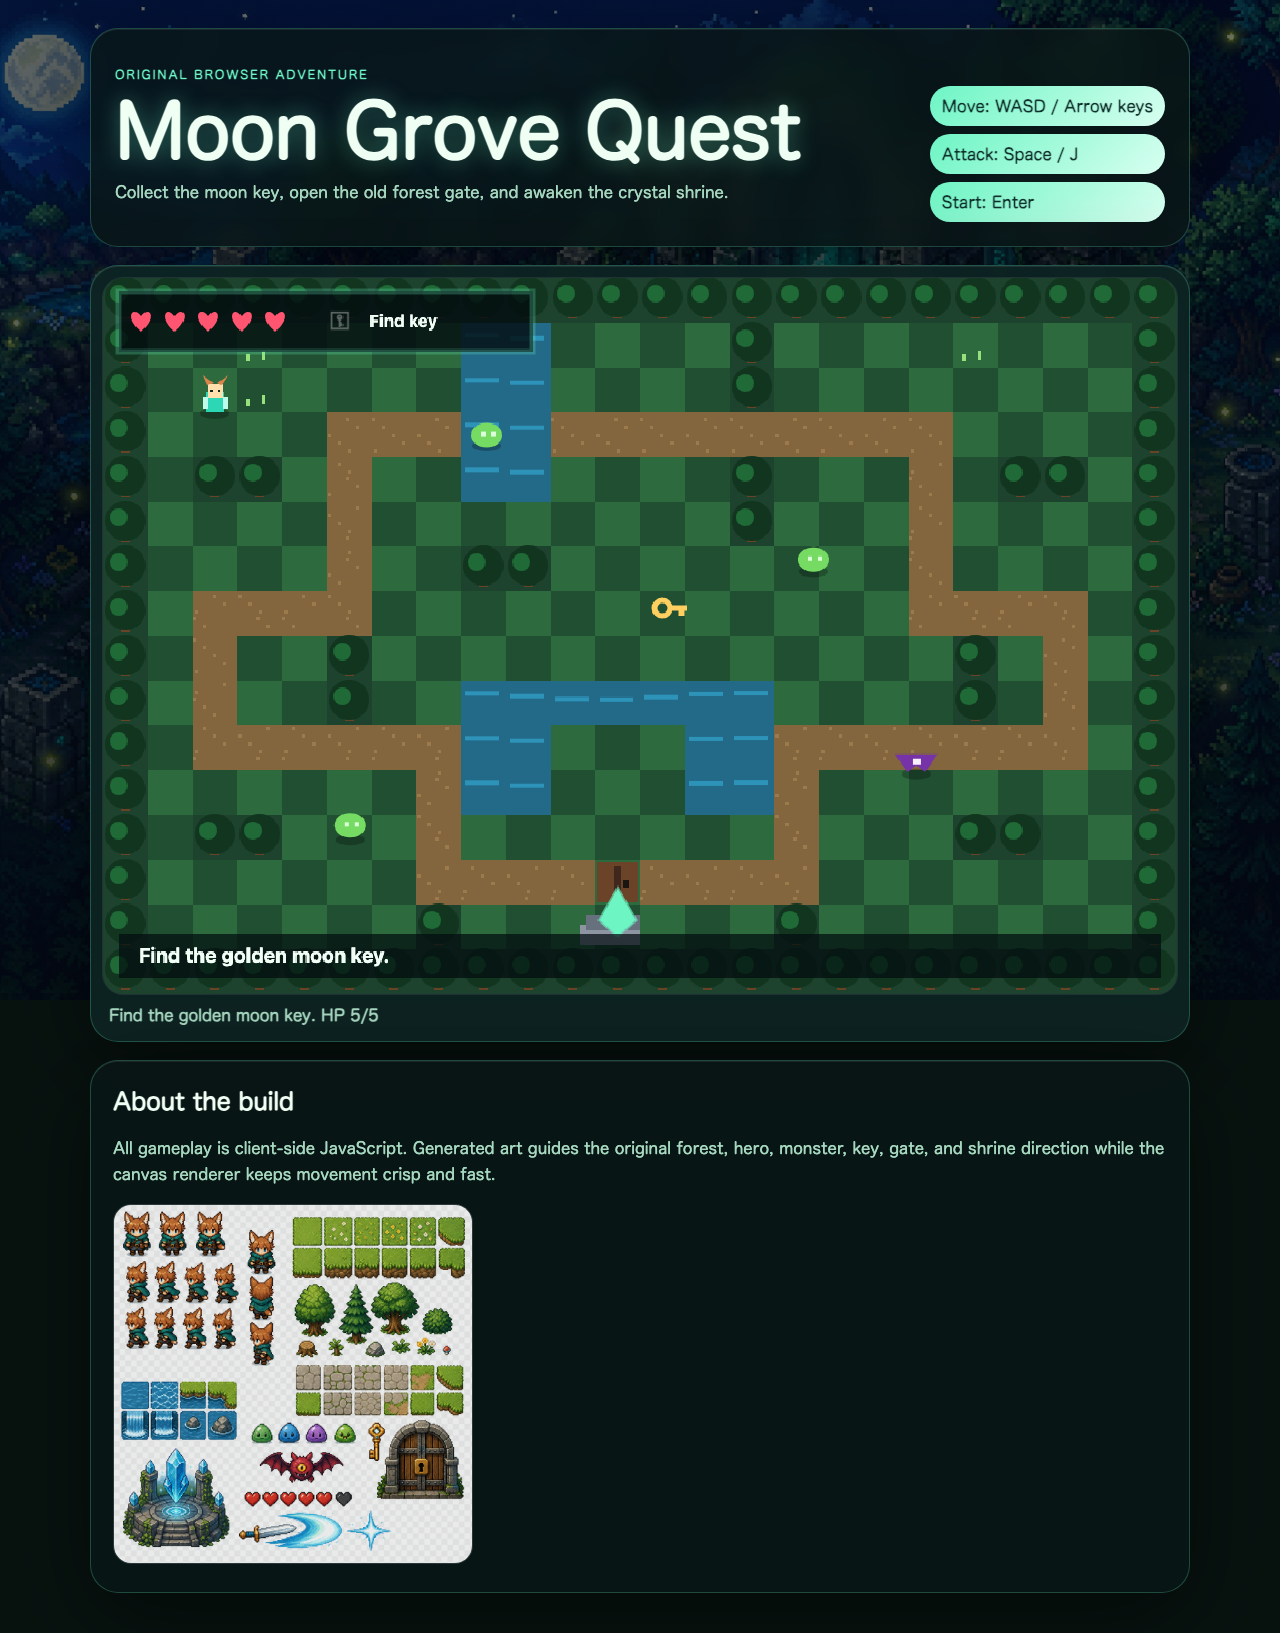
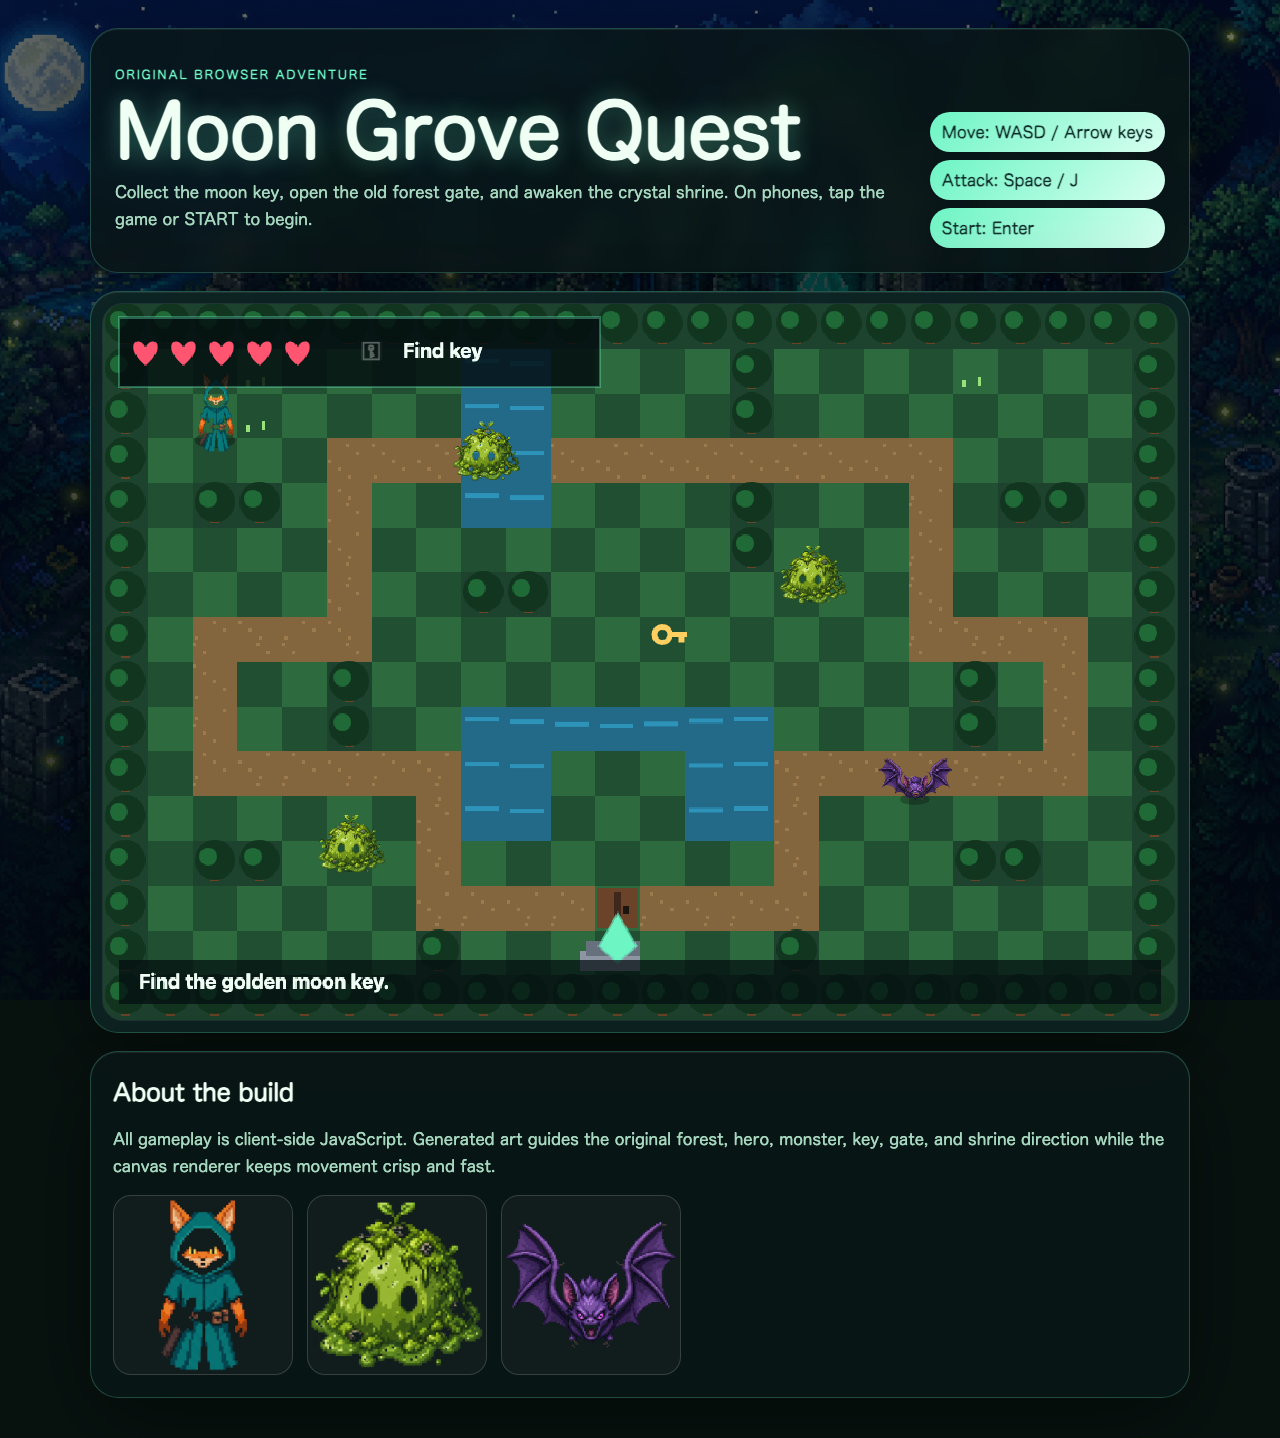
Improve mobile controls and use generated sprites

diff --git a/game.js b/game.js
@@ -6,6 +6,11 @@
   const startBtn = document.getElementById('startBtn');
   const reduceMotion = window.matchMedia('(prefers-reduced-motion: reduce)').matches;
   const statusEl = document.getElementById('status');
+  const sprites = {
+    hero: Object.assign(new Image(), { src: 'hero-sprite-clean.png' }),
+    slime: Object.assign(new Image(), { src: 'slime-sprite-clean.png' }),
+    bat: Object.assign(new Image(), { src: 'bat-sprite-clean.png' })
+  };
   const W = canvas.width;
   const H = canvas.height;
   const TILE = 40;
@@ -206,25 +211,24 @@
   function drawHero() {
     if (hero.inv > 0 && Math.floor(hero.inv / 5) % 2) return;
     const x = hero.x, y = hero.y;
-    ctx.fillStyle = 'rgba(0,0,0,.25)'; ctx.beginPath(); ctx.ellipse(x + 12, y + 29, 13, 5, 0, 0, Math.PI*2); ctx.fill();
-    ctx.strokeStyle = '#09231d'; ctx.lineWidth = 3; ctx.strokeRect(x + 3, y + 9, 18, 20); ctx.fillStyle = '#2dd7b5'; ctx.fillRect(x + 4, y + 10, 16, 18);
-    ctx.fillStyle = '#ffe0ad'; ctx.fillRect(x + 6, y + 3, 13, 12);
-    ctx.fillStyle = '#d9844a'; ctx.beginPath(); ctx.moveTo(x + 5, y + 4); ctx.lineTo(x + 1, y - 5); ctx.lineTo(x + 11, y + 2); ctx.moveTo(x + 18, y + 4); ctx.lineTo(x + 24, y - 5); ctx.lineTo(x + 14, y + 2); ctx.fill();
-    ctx.fillStyle = '#10251d';
-    if (hero.dir !== 'up') { ctx.fillRect(x + 8, y + 8, 2, 2); ctx.fillRect(x + 15, y + 8, 2, 2); }
-    ctx.fillStyle = '#bdfbea'; ctx.fillRect(x + 1, y + 14 + Math.sin(hero.step)*2, 5, 11); ctx.fillRect(x + 19, y + 14 - Math.sin(hero.step)*2, 5, 11);
-    if (hero.attack > 0) { const ar = attackRect(); ctx.strokeStyle = '#eaffff'; ctx.lineWidth = 5; ctx.beginPath(); ctx.arc(ar.x + ar.w/2, ar.y + ar.h/2, 18, -.7, Math.PI+.7); ctx.stroke(); }
+    ctx.fillStyle = 'rgba(0,0,0,.32)'; ctx.beginPath(); ctx.ellipse(x + 12, y + 30, 18, 7, 0, 0, Math.PI*2); ctx.fill();
+    if (sprites.hero.complete && sprites.hero.naturalWidth) {
+      ctx.drawImage(sprites.hero, x - 18, y - 31 + Math.sin(hero.step) * 1.2, 62, 72);
+    } else {
+      ctx.strokeStyle = '#09231d'; ctx.lineWidth = 3; ctx.strokeRect(x + 3, y + 9, 18, 20); ctx.fillStyle = '#2dd7b5'; ctx.fillRect(x + 4, y + 10, 16, 18);
+    }
+    if (hero.attack > 0) { const ar = attackRect(); ctx.strokeStyle = '#eaffff'; ctx.lineWidth = 6; ctx.beginPath(); ctx.arc(ar.x + ar.w/2, ar.y + ar.h/2, 22, -.7, Math.PI+.7); ctx.stroke(); }
   }
   function drawEnemy(e) {
     if (!e.alive) return;
     const bob = Math.sin(e.phase * 5) * 3;
     ctx.fillStyle = 'rgba(0,0,0,.25)'; ctx.beginPath(); ctx.ellipse(e.x + e.w/2, e.y + e.h, e.w/2, 5, 0, 0, Math.PI*2); ctx.fill();
     if (e.type === 'bat') {
-      ctx.strokeStyle = '#241038'; ctx.lineWidth = 4; ctx.beginPath(); ctx.moveTo(e.x + 13, e.y + 4 + bob); ctx.lineTo(e.x - 6, e.y + 2); ctx.lineTo(e.x + 5, e.y + 18); ctx.lineTo(e.x + 13, e.y + 12); ctx.lineTo(e.x + 21, e.y + 18); ctx.lineTo(e.x + 32, e.y + 2); ctx.closePath(); ctx.stroke(); ctx.fillStyle = '#a45cff'; ctx.beginPath(); ctx.moveTo(e.x + 13, e.y + 4 + bob); ctx.lineTo(e.x - 6, e.y + 2); ctx.lineTo(e.x + 5, e.y + 18); ctx.lineTo(e.x + 13, e.y + 12); ctx.lineTo(e.x + 21, e.y + 18); ctx.lineTo(e.x + 32, e.y + 2); ctx.closePath(); ctx.fill();
-      ctx.fillStyle = '#f7efff'; ctx.fillRect(e.x + 10, e.y + 8 + bob, 7, 5);
+      if (sprites.bat.complete && sprites.bat.naturalWidth) ctx.drawImage(sprites.bat, e.x - 20, e.y - 24 + bob, 68, 54);
+      else { ctx.fillStyle = '#a45cff'; ctx.beginPath(); ctx.moveTo(e.x + 13, e.y + 4 + bob); ctx.lineTo(e.x - 6, e.y + 2); ctx.lineTo(e.x + 5, e.y + 18); ctx.lineTo(e.x + 13, e.y + 12); ctx.lineTo(e.x + 21, e.y + 18); ctx.lineTo(e.x + 32, e.y + 2); ctx.closePath(); ctx.fill(); }
     } else {
-      ctx.strokeStyle = '#0b2b18'; ctx.lineWidth = 4; ctx.beginPath(); ctx.ellipse(e.x + 13, e.y + 12 + bob, 15, 12, 0, 0, Math.PI*2); ctx.stroke(); ctx.fillStyle = '#9cff74'; ctx.beginPath(); ctx.ellipse(e.x + 13, e.y + 12 + bob, 14, 11, 0, 0, Math.PI*2); ctx.fill();
-      ctx.fillStyle = '#dbffd8'; ctx.fillRect(e.x + 8, e.y + 9 + bob, 4, 4); ctx.fillRect(e.x + 17, e.y + 9 + bob, 4, 4);
+      if (sprites.slime.complete && sprites.slime.naturalWidth) ctx.drawImage(sprites.slime, e.x - 18, e.y - 24 + bob, 62, 56);
+      else { ctx.strokeStyle = '#0b2b18'; ctx.lineWidth = 4; ctx.beginPath(); ctx.ellipse(e.x + 13, e.y + 12 + bob, 15, 12, 0, 0, Math.PI*2); ctx.stroke(); ctx.fillStyle = '#9cff74'; ctx.beginPath(); ctx.ellipse(e.x + 13, e.y + 12 + bob, 14, 11, 0, 0, Math.PI*2); ctx.fill(); }
     }
   }
   function drawKey() {
@@ -246,7 +250,7 @@
     ctx.fillStyle = 'rgba(2, 8, 10, .62)'; ctx.fillRect(0, 0, W, H);
     ctx.fillStyle = COLORS.white; ctx.textAlign = 'center'; ctx.font = '900 54px system-ui';
     ctx.fillText(hero.won ? 'Shrine Awakened!' : hero.dead ? 'Try Again?' : 'Moon Grove Quest', W/2, H/2 - 45);
-    ctx.fillStyle = COLORS.teal; ctx.font = 'bold 22px system-ui'; ctx.fillText('Press Enter to start • WASD/Arrows to move • Space/J to attack', W/2, H/2 + 6);
+    ctx.fillStyle = COLORS.teal; ctx.font = 'bold 22px system-ui'; ctx.fillText('Tap START or the game screen • Move with D-pad • Attack with ⚔', W/2, H/2 + 6);
     ctx.fillStyle = COLORS.gold; ctx.font = 'bold 18px system-ui'; ctx.fillText('Original mini adventure — collect key, open gate, reach shrine', W/2, H/2 + 42);
     ctx.textAlign = 'left';
   }
@@ -284,7 +288,7 @@
   });
 
   // Test hook, intentionally small and read-only for smoke tests.
-  window.__moonGrove = { hero, enemies, get started() { return started; }, reset, version: '1.1.0' };
+  window.__moonGrove = { hero, enemies, sprites, get started() { return started; }, reset, version: '1.2.0' };
   statusEl.textContent = message;
   render();
   requestAnimationFrame(loop);

diff --git a/styles.css b/styles.css
@@ -10,7 +10,7 @@
   --danger: #ff6f7d;
 }
 * { box-sizing: border-box; }
-html, body { margin: 0; min-height: 100%; }
+html, body { margin: 0; min-height: 100%; overscroll-behavior: none; }
 body {
   font-family: ui-rounded, "Hiragino Maru Gothic ProN", system-ui, -apple-system, BlinkMacSystemFont, "Segoe UI", sans-serif;
   color: var(--text);
@@ -34,7 +34,7 @@ p { color: var(--muted); line-height: 1.65; }
 .controls-help { display: grid; gap: 8px; font-weight: 800; color: #10312c; }
 .controls-help span { background: linear-gradient(135deg, var(--accent), #d8fff1); border-radius: 999px; padding: 8px 12px; white-space: nowrap; }
 .game-card { position: relative; padding: 12px; overflow: hidden; background: var(--panel-strong); }
-canvas { display: block; width: 100%; height: auto; max-height: min(72vh, 720px); object-fit: contain; image-rendering: pixelated; border-radius: 20px; background: #10251d; outline: 1px solid rgba(255,255,255,.08); }
+canvas { display: block; width: 100%; height: auto; max-height: min(72vh, 720px); object-fit: contain; image-rendering: pixelated; border-radius: 20px; background: #10251d; outline: 1px solid rgba(255,255,255,.08); touch-action: none; user-select: none; }
 #status { position: absolute; width: 1px; height: 1px; margin: -1px; padding: 0; overflow: hidden; clip: rect(0 0 0 0); white-space: nowrap; border: 0; }
 .touch-controls { display: none; position: absolute; inset: auto 18px 56px 18px; pointer-events: none; }
 .touch-controls button { pointer-events: auto; border: 0; color: white; background: rgba(14, 44, 42, .82); border: 1px solid rgba(109,245,196,.35); border-radius: 18px; font-size: 22px; font-weight: 900; box-shadow: 0 8px 20px rgba(0,0,0,.35); }
@@ -46,11 +46,24 @@ canvas { display: block; width: 100%; height: auto; max-height: min(72vh, 720px)
 .touch-controls .start { position: absolute; right: 96px; bottom: 28px; width: 86px; height: 54px; font-size: 15px; color: #09231d; background: linear-gradient(135deg, var(--gold), #fff0a3); }
 .notes { margin-top: 18px; padding: 22px; }
 .notes h2 { margin: 0 0 6px; }
-.notes img { width: min(360px, 100%); border-radius: 18px; border: 1px solid rgba(255,255,255,.16); opacity: .92; }
+.asset-strip { display: flex; flex-wrap: wrap; gap: 14px; align-items: center; }
+.asset-strip img { width: min(180px, 30vw); aspect-ratio: 1 / 1; object-fit: contain; background: rgba(255,255,255,.04); border-radius: 18px; border: 1px solid rgba(255,255,255,.16); opacity: .95; }
 @media (hover: none), (max-width: 760px) {
-  .hero-card { display: block; }
-  .controls-help { margin-top: 18px; }
-  .touch-controls { display: block; }
+  .shell { width: 100vw; padding: 0 0 10px; }
+  .hero-card { display: block; margin: 0; border-radius: 0; padding: 12px 14px; }
+  .hero-card p, .controls-help { display: none; }
+  h1 { font-size: 34px; }
+  .game-card { border-radius: 0; padding: 0; border-left: 0; border-right: 0; }
+  canvas { border-radius: 0; width: 100vw; height: calc(100dvh - 92px); max-height: none; object-fit: contain; }
+  .touch-controls { display: block; inset: auto 10px max(18px, env(safe-area-inset-bottom)) 10px; }
+  .touch-controls button { background: rgba(7, 27, 28, .72); border-color: rgba(234,255,255,.5); backdrop-filter: blur(7px); }
+  .touch-controls .up { left: 72px; bottom: 104px; width: 64px; height: 64px; }
+  .touch-controls .left { left: 4px; bottom: 34px; width: 64px; height: 64px; }
+  .touch-controls .down { left: 72px; bottom: 34px; width: 64px; height: 64px; }
+  .touch-controls .right { left: 140px; bottom: 34px; width: 64px; height: 64px; }
+  .touch-controls .attack { right: 8px; bottom: 36px; width: 92px; height: 92px; font-size: 30px; }
+  .touch-controls .start { right: 112px; bottom: 132px; width: 88px; height: 54px; }
+  .notes { margin: 10px; }
   body { background-attachment: scroll; }
 }
 @media (prefers-reduced-motion: reduce) {

diff --git a/index.html b/index.html
@@ -16,7 +16,7 @@
       <div class="copy">
         <p class="eyebrow">Original browser adventure</p>
         <h1>Moon Grove Quest</h1>
-        <p>Collect the moon key, open the old forest gate, and awaken the crystal shrine.</p>
+        <p>Collect the moon key, open the old forest gate, and awaken the crystal shrine. On phones, tap the game or START to begin.</p>
       </div>
       <div class="controls-help">
         <span>Move: WASD / Arrow keys</span>
@@ -41,7 +41,11 @@
     <section class="notes">
       <h2>About the build</h2>
       <p>All gameplay is client-side JavaScript. Generated art guides the original forest, hero, monster, key, gate, and shrine direction while the canvas renderer keeps movement crisp and fast.</p>
-      <img src="spritesheet.png" loading="lazy" alt="Generated original pixel-art spritesheet used as art direction for the game.">
+      <div class="asset-strip">
+        <img src="hero-sprite-clean.png" loading="lazy" alt="Generated original hero sprite used in the game.">
+        <img src="slime-sprite-clean.png" loading="lazy" alt="Generated original slime sprite used in the game.">
+        <img src="bat-sprite-clean.png" loading="lazy" alt="Generated original bat sprite used in the game.">
+      </div>
     </section>
   </main>
   <script src="game.js"></script>
